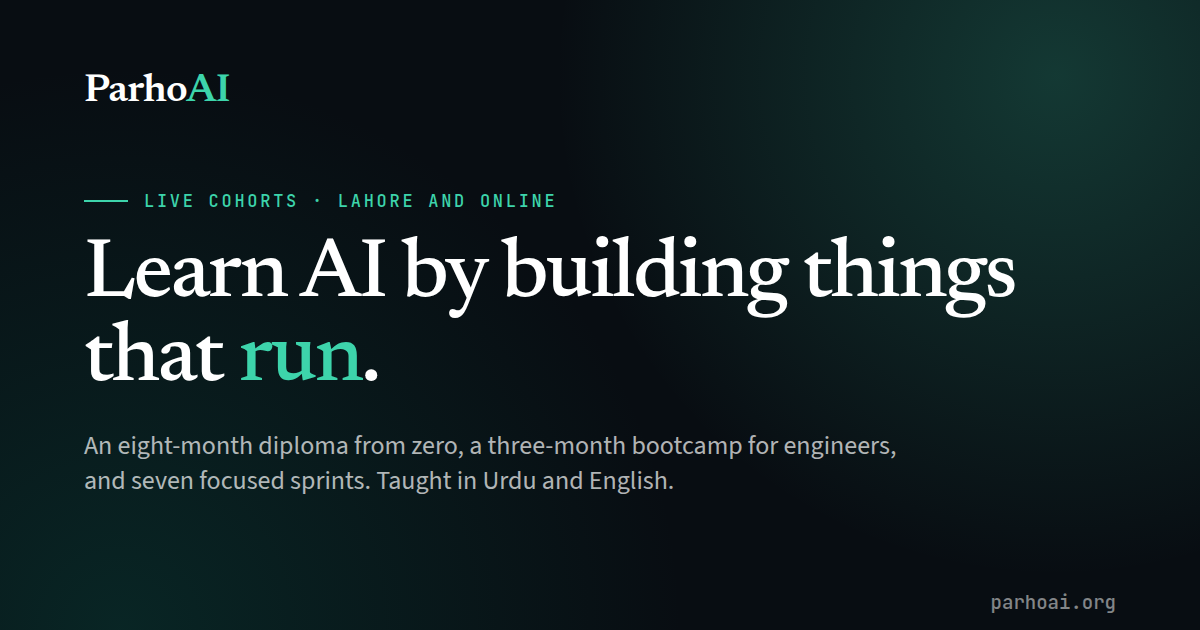
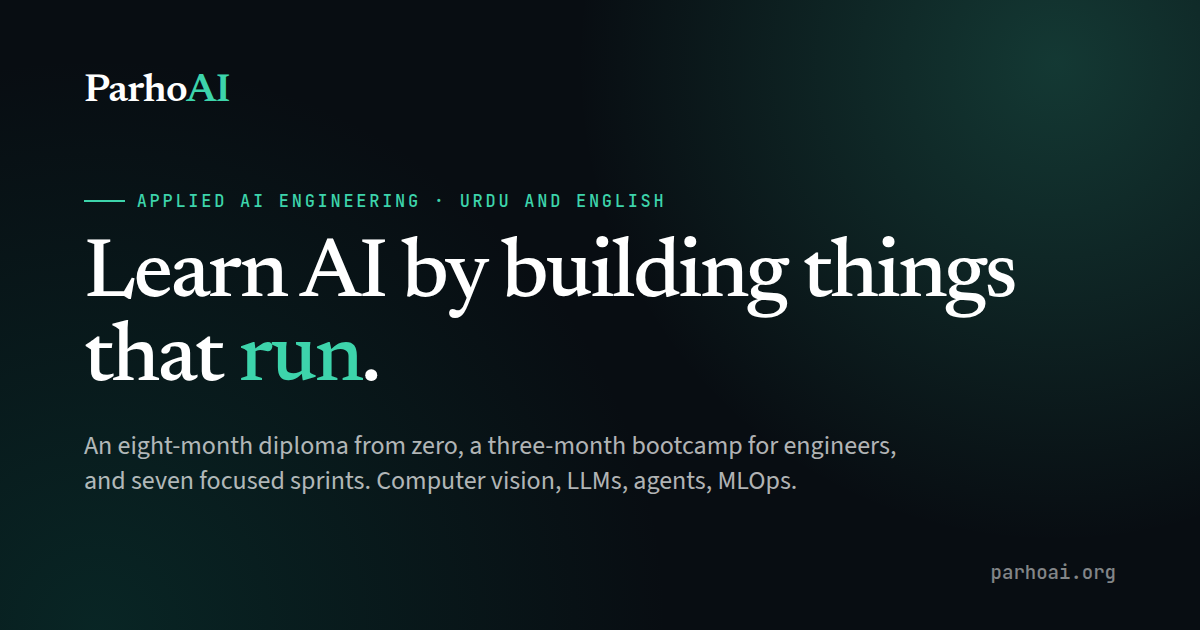
Neutral program wording: drop live, Lahore and online
Delivery format and location are not decided yet, so the hero,
footer, meta descriptions and share image now describe the programs
and subjects instead.

Changed region(s): [[0.0925, 0.3016, 0.555, 0.3317], [0.3083, 0.754, 0.6783, 0.7841], [0.8325, 0.9048, 0.925, 0.9651]]

diff --git a/src/app/layout.tsx b/src/app/layout.tsx
@@ -16,12 +16,12 @@ export const metadata: Metadata = {
   alternates: { canonical: "./" },
   title: { default: "ParhoAI — Learn AI by building things that run", template: "%s · ParhoAI" },
   description:
-    "Live AI engineering cohorts taught in Urdu and English. An eight-month diploma from zero computer science, a three-month bootcamp for working engineers, and seven focused sprints.",
-  keywords: ["AI course Pakistan","machine learning bootcamp Lahore","AI engineering diploma","computer vision course","LLM course Urdu","MLOps training"],
+    "Applied AI engineering programs taught in Urdu and English: an eight-month diploma from zero computer science, a three-month bootcamp for working engineers, and seven focused sprints across computer vision, NLP, LLMs, agents and MLOps.",
+  keywords: ["AI course Pakistan","machine learning bootcamp Pakistan","AI engineering diploma","computer vision course","LLM course Urdu","MLOps training"],
   openGraph: {
     type: "website", url: "./", siteName: "ParhoAI",
     title: "ParhoAI — Learn AI by building things that run",
-    description: "Live AI engineering cohorts in Urdu and English. Projects on your GitHub, not certificates on your wall.",
+    description: "Applied AI engineering in Urdu and English. Projects on your GitHub, not certificates on your wall.",
   },
   twitter: { card: "summary_large_image", title: "ParhoAI", description: "Learn AI by building things that run." },
   robots: { index: true, follow: true },

diff --git a/src/components/Hero.tsx b/src/components/Hero.tsx
@@ -13,12 +13,12 @@ export default function Hero() {
       <div aria-hidden className="pointer-events-none absolute -right-40 -top-40 h-[520px] w-[520px] rounded-full bg-[radial-gradient(circle,rgba(0,214,166,0.18),transparent_68%)]" />
       <div aria-hidden className="pointer-events-none absolute -bottom-56 left-1/4 h-[440px] w-[440px] rounded-full bg-[radial-gradient(circle,rgba(10,110,92,0.34),transparent_70%)]" />
       <div className="wrap relative">
-        <p className="eyebrow-l animate-rise">Live cohorts · Lahore and online</p>
+        <p className="eyebrow-l animate-rise">Applied AI engineering · Urdu and English</p>
         <h1 className="h1 mt-7 max-w-[15ch] animate-rise text-white [animation-delay:60ms]">
           Learn AI by building things that <em className="not-italic text-jade-bright">run</em>.
         </h1>
         <p className="lede mt-6 max-w-[52ch] animate-rise text-white/70 [animation-delay:120ms]">
-          Not tutorials. Live cohorts where every module ends in a project that ships to
+          Not tutorials. Programs where every module ends in a project that ships to
           your GitHub — from zero computer science, or in three months if you already code.
         </p>
         <div className="mt-11 flex animate-rise flex-col gap-3 sm:flex-row [animation-delay:180ms]">

diff --git a/src/app/diploma/page.tsx b/src/app/diploma/page.tsx
@@ -7,8 +7,8 @@ import CtaBand from "@/components/CtaBand";
 
 export const metadata: Metadata = {
   title: "Applied AI Engineering Diploma — 8 months from zero",
-  description: "An eight-month, 140-session diploma taking you from no computer science background to a shipping AI engineer. Live cohorts in Urdu and English, nine projects and a deployed capstone.",
-  openGraph: { url: "/diploma", title: "Applied AI Engineering Diploma — 8 months from zero", description: "An eight-month, 140-session diploma taking you from no computer science background to a shipping AI engineer. Live cohorts in Urdu and English, nine projects and a deployed capstone." },
+  description: "An eight-month, 140-session diploma taking you from no computer science background to a shipping AI engineer. Taught in Urdu and English, nine projects and a deployed capstone.",
+  openGraph: { url: "/diploma", title: "Applied AI Engineering Diploma — 8 months from zero", description: "An eight-month, 140-session diploma taking you from no computer science background to a shipping AI engineer. Taught in Urdu and English, nine projects and a deployed capstone." },
 };
 
 const MODS: Mod[] = [

diff --git a/src/components/Footer.tsx b/src/components/Footer.tsx
@@ -9,7 +9,7 @@ export default function Footer() {
         <div className="lg:col-span-2">
           <Logo light />
           <p className="mt-4 max-w-xs text-sm leading-relaxed text-white/60">
-            Live AI engineering cohorts. Taught in Urdu and English, built in English, assessed on what you ship.
+            Applied AI engineering programs. Taught in Urdu and English, built in English, assessed on what you ship.
           </p>
         </div>
         <div>
